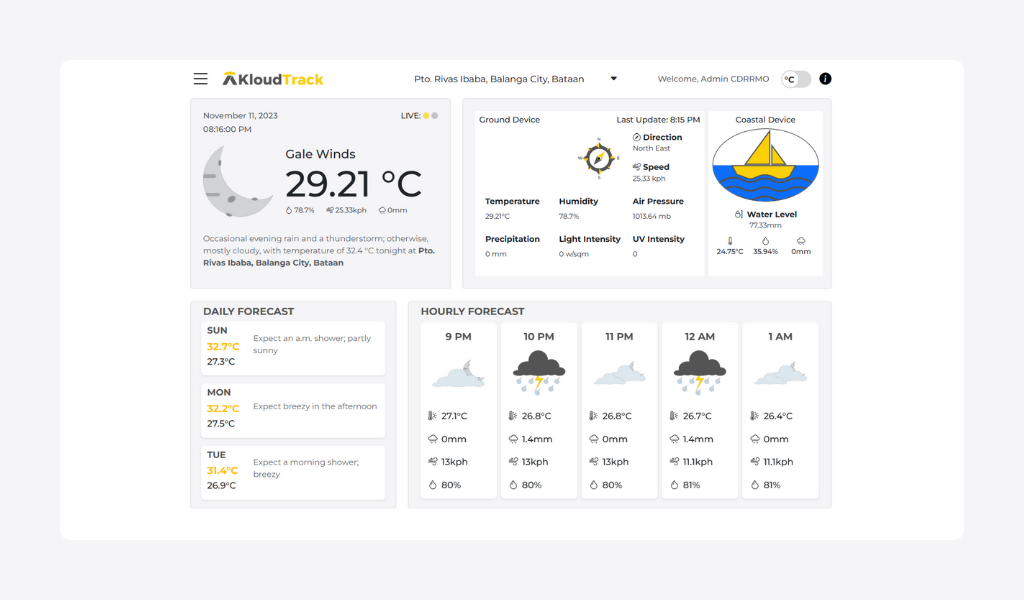
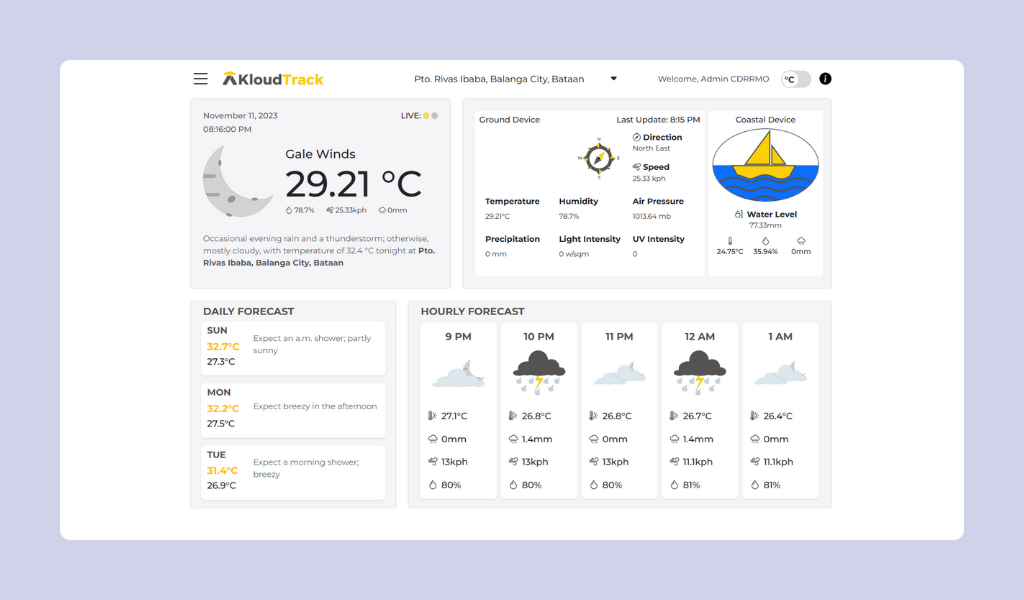
Publish GH Page

Changed region(s): [[0.0, 0.0, 1.0, 1.0]]

diff --git a/src/components/ExperienceItem.jsx b/src/components/ExperienceItem.jsx
@@ -2,26 +2,22 @@ const ExperienceItem = ({ experience }) => {
   return (
     <>
       {experience &&
-        experience.map((exp) => (
-          <ol className="flex flex-col md:flex-row relative border-l border-main pr-5">
+        experience.map((exp, index) => (
+          <ol
+            className="flex flex-col md:flex-row relative border-l border-main pr-5"
+            key={index}
+          >
             <li className="mb-8 ml-4">
               <div className="absolute w-3 h-3 bg-main rounded-full mt-1.5 -left-1.5 border-white"></div>
               <p className="flex flex-wrap gap-4 flex-row items-center justify-start mb-2 text-xs md:text-sm">
                 <span className="inline-block px-2 py-1 text-white bg-main rounded-md">
                   {exp.year}
                 </span>
-                <span className="text-xl text-main">
-                  {exp.name}
-                </span>
+                <span className="text-xl text-main">{exp.name}</span>
               </p>
               <p className="flex flex-wrap gap-4 flex-row items-center justify-start text-xs md:text-sm">
-                <span className="text-lg text-black">
-                  {exp.company}
-                </span>
-                -
-                <span className="text-lg text-stone-700">
-                  {exp.workSetUp}
-                </span>
+                <span className="text-lg text-black">{exp.company}</span>-
+                <span className="text-lg text-stone-700">{exp.workSetUp}</span>
               </p>
               <p className="my-2 text-sm font-normal text-gray-600">
                 {exp.details}

diff --git a/tailwind.config.js b/tailwind.config.js
@@ -9,8 +9,9 @@ export default {
       },
       colors: {
         // 087f8c mint color
+        // eaf4f4 lightsky blue color
         main: "#5b2a86",
-        second: "#eaf4f4",
+        second: "#EAEAFF",
         body: "#EEEEEE",
         accent: "#1D1D1D",
         night: "#f0f0f0",
